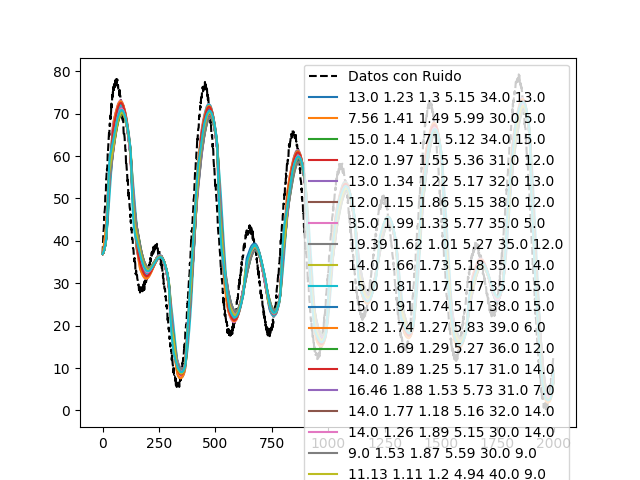
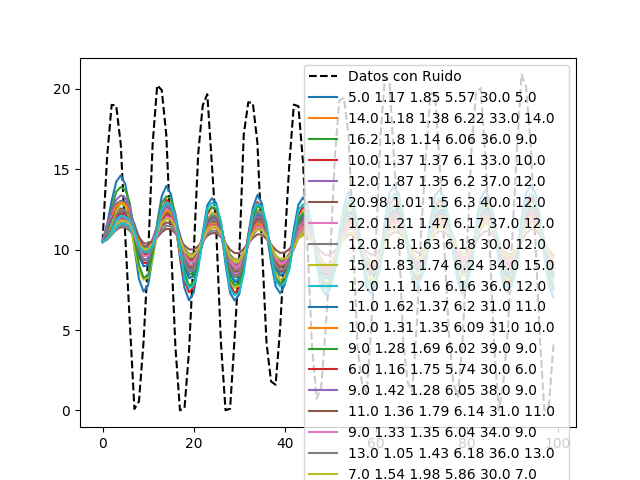
Revert "Prueba"
This reverts commit 5a4b33f1302796817fb5837d7cb6587cdc87607f.

diff --git a/TP/main.py b/TP/main.py
@@ -25,13 +25,13 @@ salida_filtro = []              #Array de las salidas del filtro con cada set de
 evol_error = []                 #Evolucion del error en funcion de las generaciones
 
 # Parametros del DEWMA -------------------------------------------------------------------------------------------------------------------
-
+lim_N = [5, 40]
 lim_gamma = [1, 2]
 lim_alfa = [1, 2]
 lim_sigma = [1, 10]             #Actualmente no se utiliza y el filtro calcula su sigma propio
 lim_Nmax = [30, 40]             #Hay que revisar estos limites porque el filtro DEWMA ya hace una estimacion de N usando estos valores
-lim_Nmin = [5, 15]              #Quiza estos parametros hay que incluirlos en los limites de arriba, para pensar
-lim_N = [lim_Nmin[0], lim_Nmax[1]]
+lim_Nmin = [5, 15]               #Quiza estos parametros hay que incluirlos en los limites de arriba, para pensar
+
 
 # Parametros del GA ----------------------------------------------------------------------------------------------------------------------
 nGen = 10                      #Generaciones a correr
@@ -45,10 +45,10 @@ Cant_param=6
 
 
 # Parametros de la señal de prueba -------------------------------------------------------------------------------------------------------
-amp = [20, 10, 15]              #Amplitudes de cada tono
-per = [200, 420, 350]              #Periodos de cada tono
+amp = [10, 0, 0]              #Amplitudes de cada tono
+per = [10, 21, 14]              #Periodos de cada tono
 fase = [0, 0, 1.5]              #Fases de cada tono
-muestras = 2000                  #Tamaño de la señal total
+muestras = 100                  #Tamaño de la señal total
 
 amp_noise = 1                   #Amplitud del ruido
 
@@ -176,7 +176,7 @@ for gen in range(nGen):
     poblacion_nueva = select_ind(poblacion_actual, error_punt)
     
     #cruza    
-    poblacion_nueva = mate_ind(poblacion_nueva, pCruza,Cant_param)
+    #poblacion_nueva = mate_ind(poblacion_nueva, pCruza,Cant_param)
     
     #mutacion
     poblacion_nueva = mutac_ind(poblacion_nueva,pMuta,dMuta)
@@ -185,10 +185,5 @@ for gen in range(nGen):
 
 #Termino y muestro resultados
 
-fig = plt.figure(figsize=(22,18), dpi='150')
 plt.plot(evol_error)
-plt.set_ylabel('Error promedio')
-plt.set_xlabel('Generacion')
-plt.set_title('Evolucion del error por generacion')
-plt.savefig("Evolucion/Error.png")
-plt.close()
+plt.show()

diff --git a/TP/fun_jose.py b/TP/fun_jose.py
@@ -44,8 +44,8 @@ def gen_signal(amp, per, fases, muestras):
         st[j] = sum(s[:,j])
 
     # Le monto una continua para ver si eso es lo que rompe el sigma
-    #if st.min() < 0:
-    #    st = st - st.min()
+    if st.min() < 0:
+        st = st - st.min()
 
     #plt.plot(s.transpose(), label = "original")
     #plt.plot(st, label = "suma")
